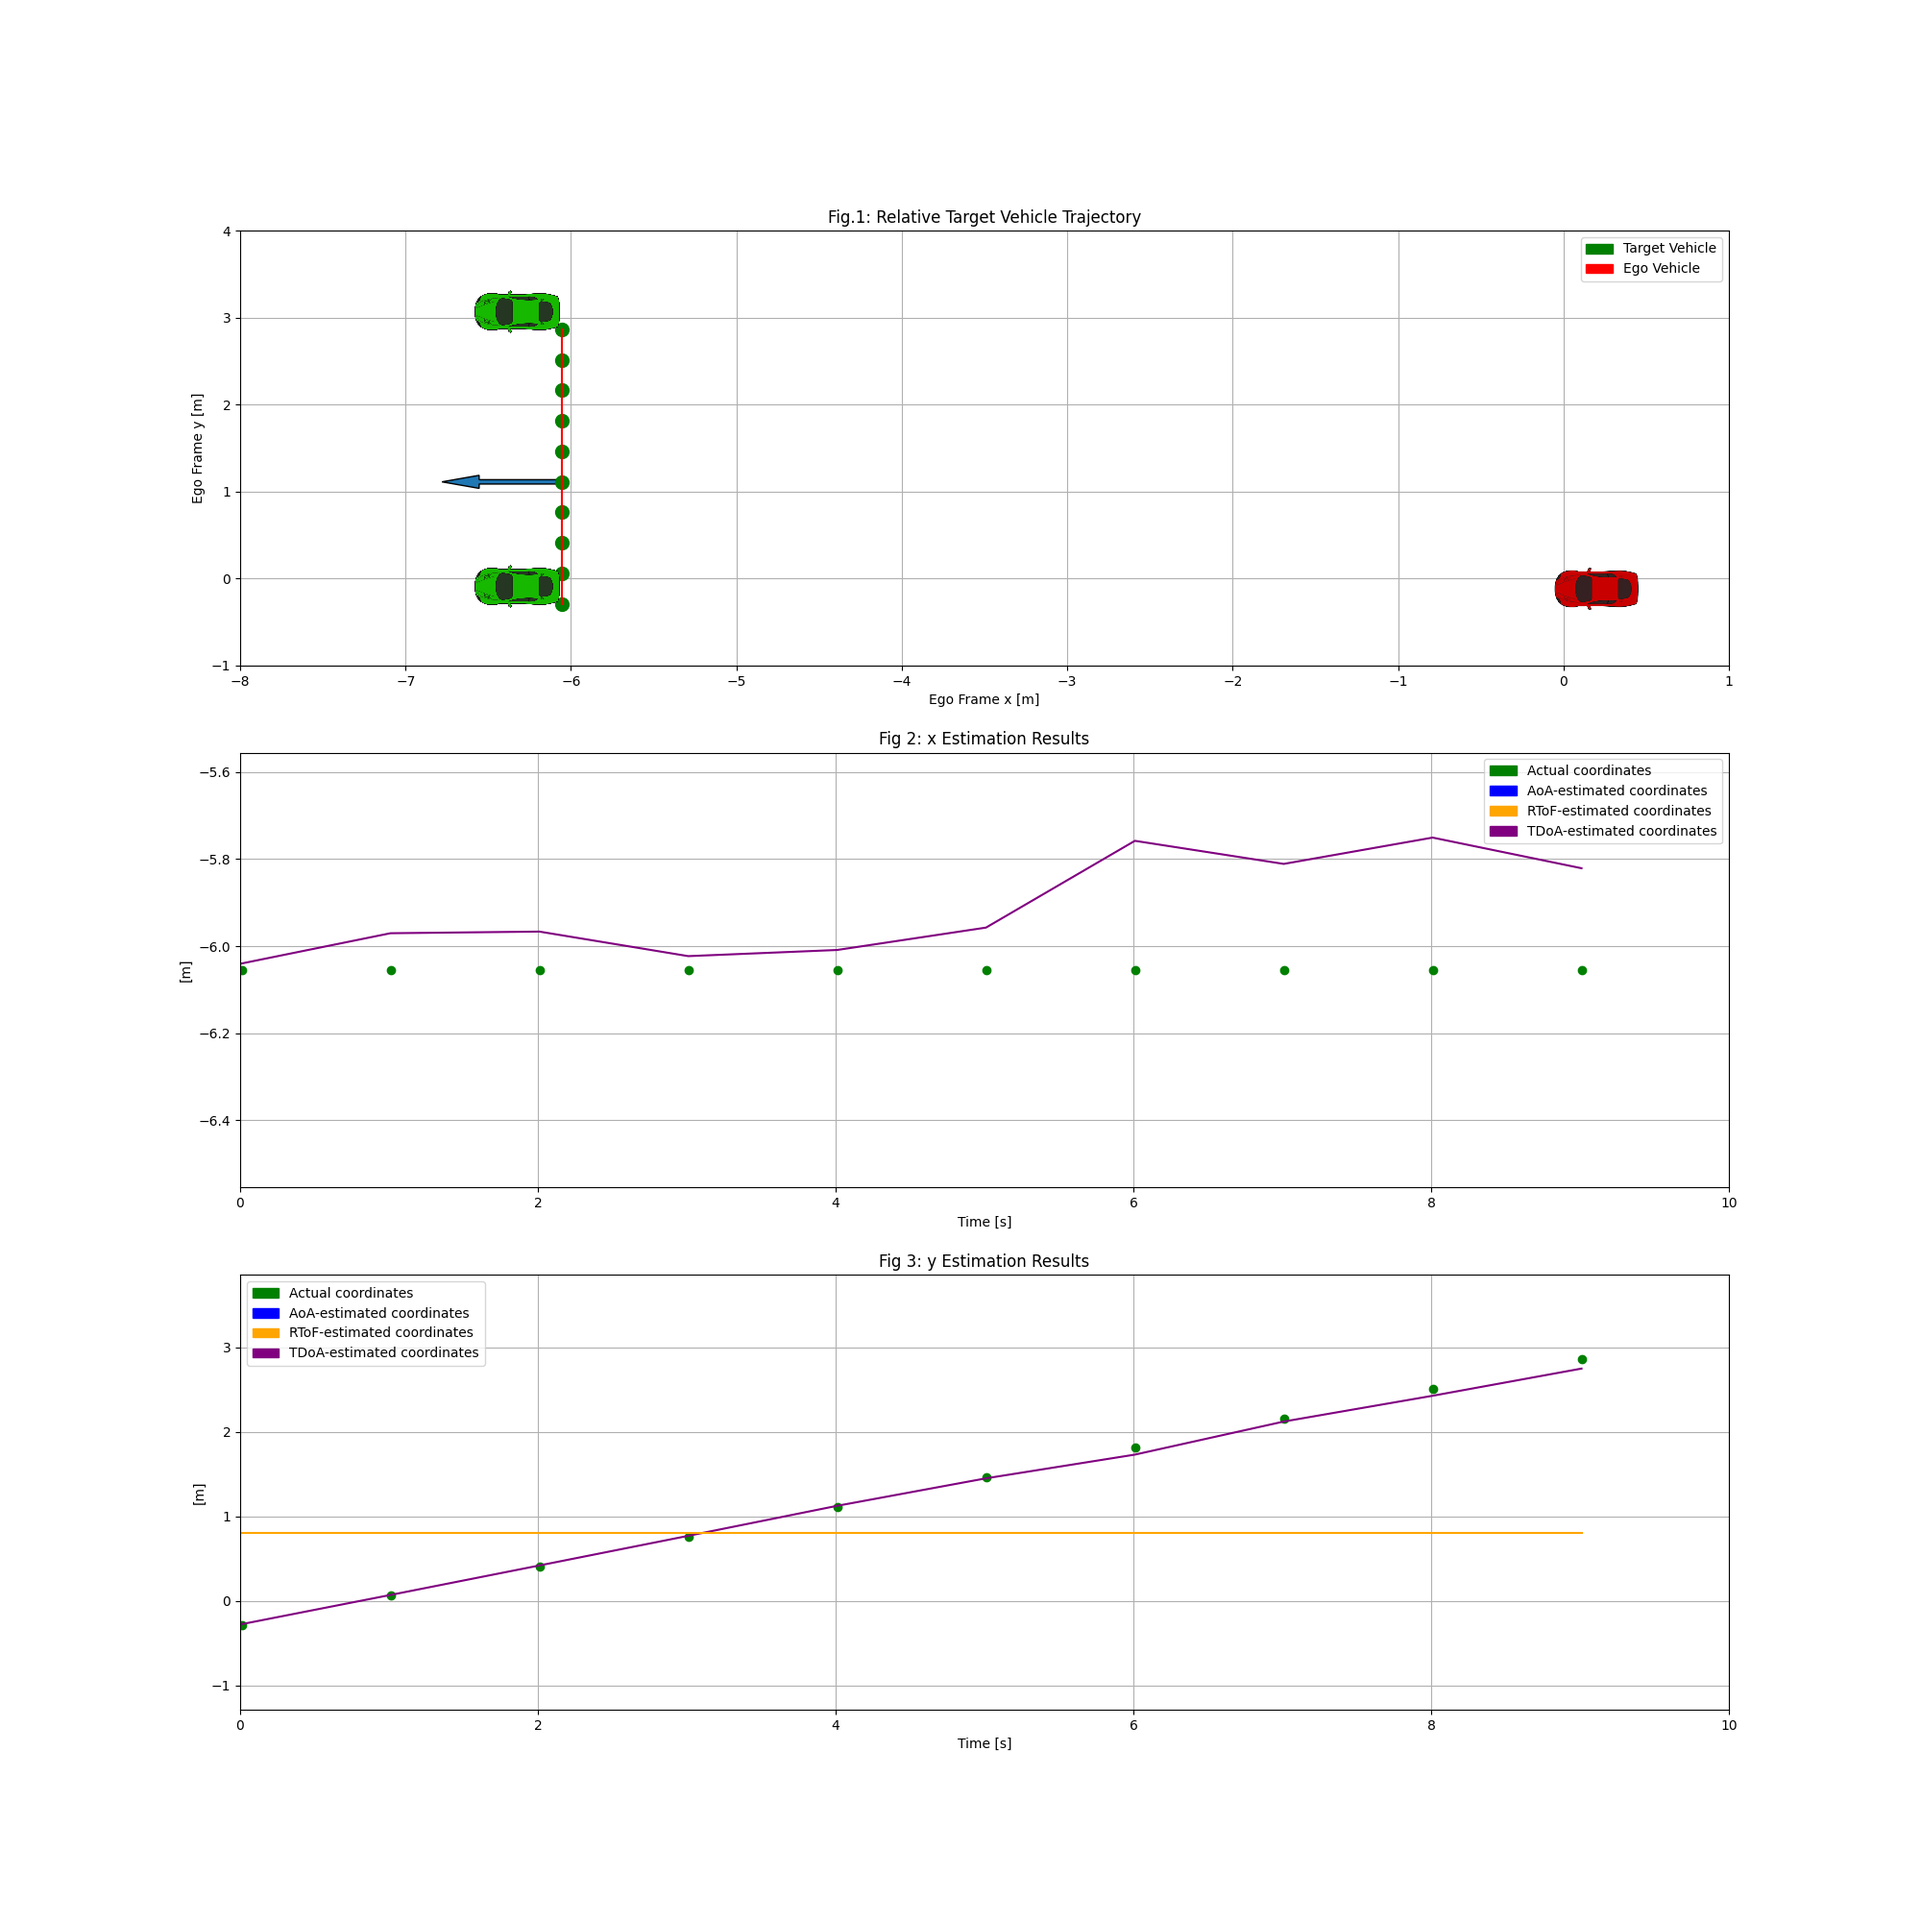
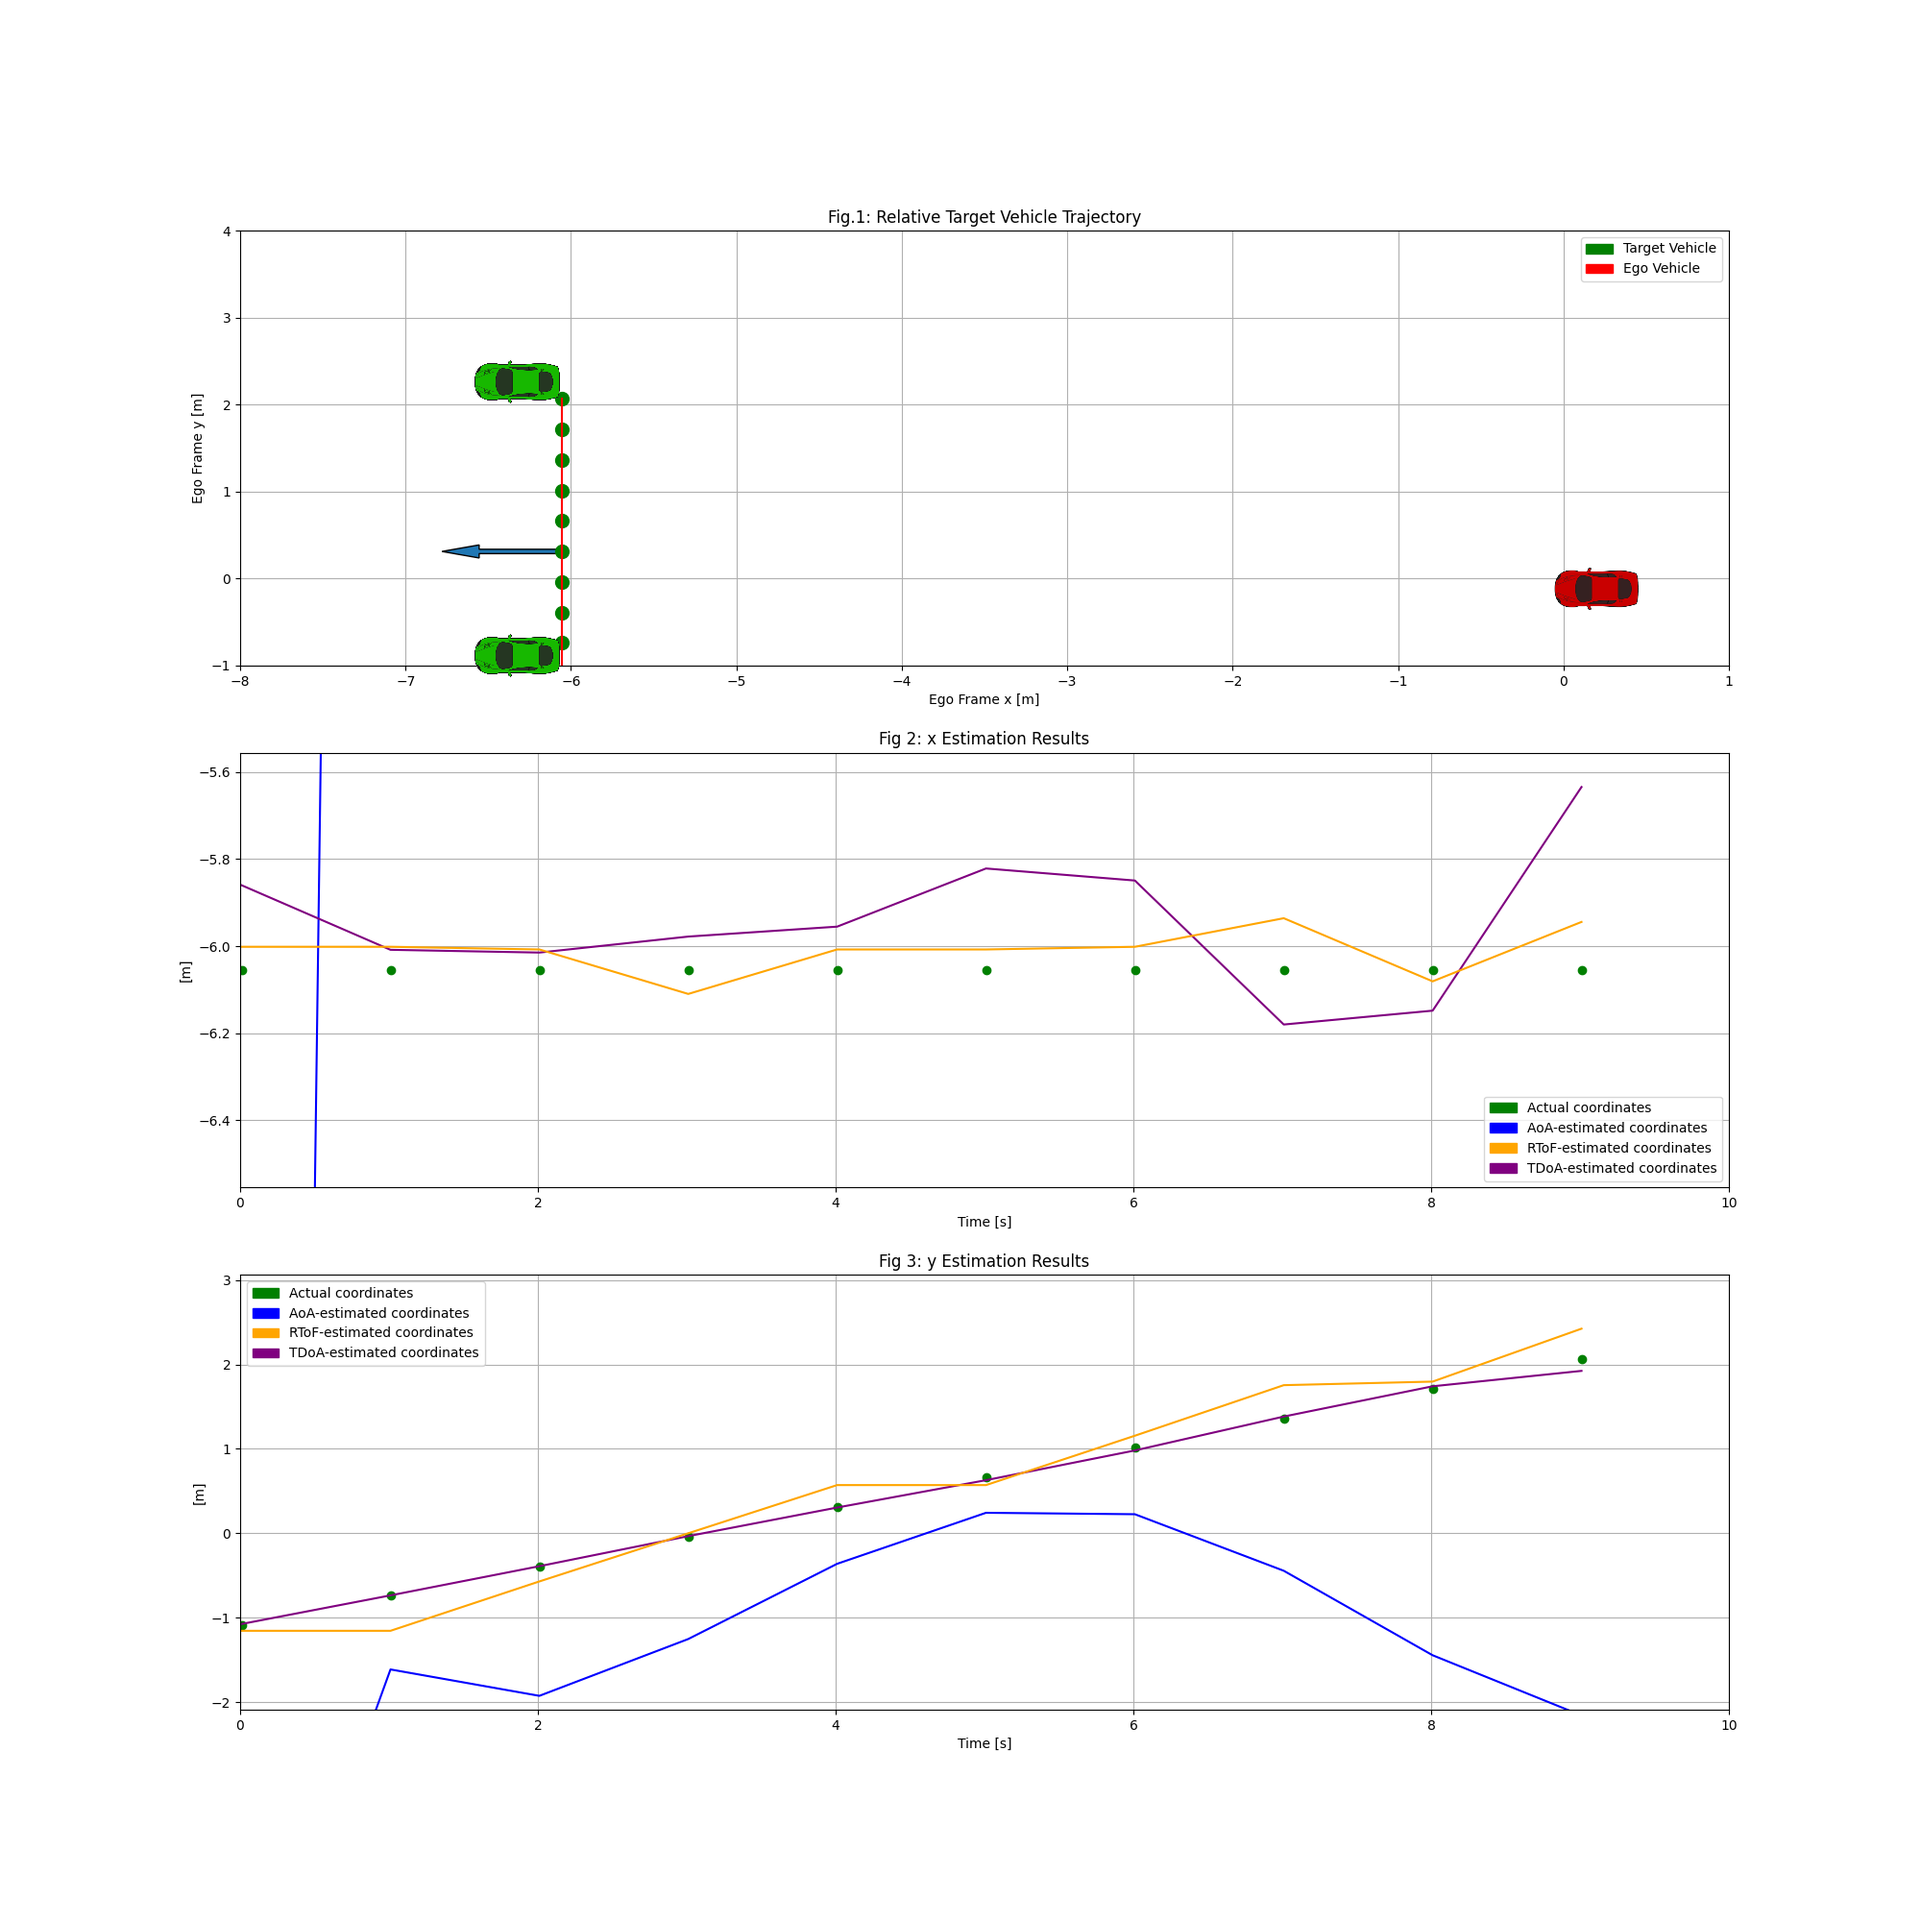
changed Roberts method

diff --git a/generate_simulation_data.py b/generate_simulation_data.py
@@ -46,7 +46,7 @@ for i in range(len(data_names)):
     area = data['qrx']['f_QRX']['params']['area']
     rx_radius = math.sqrt(area) / math.pi
     c = 3e8
-    rx_fov = 50  # angle
+    rx_fov = 80  # angle
     tx_half_angle = 60  # angle
     signal_freq = 1e6
     measure_dt = 1 / 2.5e6  # 2.5 MHz measure frequency
@@ -58,18 +58,18 @@ for i in range(len(data_names)):
 
     rel_hdg = data['vehicle']['target_relative']['heading'][::dp]
 
-    tgt_tx1_x = -1 * data['vehicle']['target_relative']['tx1_qrx4']['y'][::dp]
-    tgt_tx1_y = data['vehicle']['target_relative']['tx1_qrx4']['x'][::dp]
-    tgt_tx2_x = -1 * data['vehicle']['target_relative']['tx2_qrx3']['y'][::dp]
-    tgt_tx2_y = data['vehicle']['target_relative']['tx2_qrx3']['x'][::dp]
-
     L_tgt = data['vehicle']['target']['width']
     L_ego = data['vehicle']['ego']['width']
 
+    tgt_tx1_x = -1 * data['vehicle']['target_relative']['tx1_qrx4']['y'][::dp]
+    tgt_tx1_y = data['vehicle']['target_relative']['tx1_qrx4']['x'][::dp] - L_ego / 2
+    tgt_tx2_x = -1 * data['vehicle']['target_relative']['tx2_qrx3']['y'][::dp]
+    tgt_tx2_y = data['vehicle']['target_relative']['tx2_qrx3']['x'][::dp] - L_ego / 2
+
     ego_qrx1_x = np.zeros(len(tgt_tx1_x))
-    ego_qrx1_y = np.zeros(len(tgt_tx1_x)) - L_ego / 2
+    ego_qrx1_y = np.zeros(len(tgt_tx1_x)) # - L_ego / 2
     ego_qrx2_x = np.zeros(len(tgt_tx1_x))
-    ego_qrx2_y = np.zeros(len(tgt_tx1_x)) + L_ego / 2
+    ego_qrx2_y = np.zeros(len(tgt_tx1_x)) + L_ego  # / 2
 
     # delay parameters
     delay_11 = data['channel']['qrx1']['delay']['tx1'][::dp]
@@ -148,9 +148,9 @@ for i in range(len(data_names)):
         x_pose[i] = tx_aoa[0]
         y_pose[i] = tx_aoa[1]
         x_becha[i] = tx_rtof[0]
-        y_becha[i] = tx_rtof[1] - L_ego / 2
+        y_becha[i] = tx_rtof[1]   - L_ego / 2
         x_roberts[i] = tx_tdoa[0]
-        y_roberts[i] = tx_tdoa[1] + L_ego / 2
+        y_roberts[i] = tx_tdoa[1]   - L_ego / 2
     ## In[2]:
     y_data = np.copy(y)
     x_data = np.copy(x)

diff --git a/VLP_methods/tdoa.py b/VLP_methods/tdoa.py
@@ -17,7 +17,7 @@ from cache.VLC_init import *
 
 class TDoA:
 
-    def __init__(self, a_m=2, f_m1=40000000, f_m2=25000000, measure_dt=1e-8, vehicle_dt=1e-3, car_dist=1.6):
+    def __init__(self, a_m=2, f_m1=40000000, f_m2=25000000, measure_dt=1e-8, vehicle_dt=1e-3, car_dist=1.6, c=3e8):
         self.a_m = a_m
         self.dt = measure_dt
         self.measure_period = vehicle_dt
@@ -25,13 +25,14 @@ class TDoA:
         self.w2 = 2 * math.pi * f_m2
         self.car_dist = car_dist
         self.t = np.arange(0, vehicle_dt - self.dt, self.dt)
+        self.c = c
 
     def estimate(self, delays, H, noise_variance):
 
         delay1_measured, delay2_measured = self.measure_delay(delays, H, noise_variance)
 
         # calculate distance differences using d(dist) = delay * c
-        v = 3 * 1e8
+        v = self.c
         ddist1 = np.mean(delay1_measured) * v
         ddist2 = np.mean(delay2_measured) * v
 
